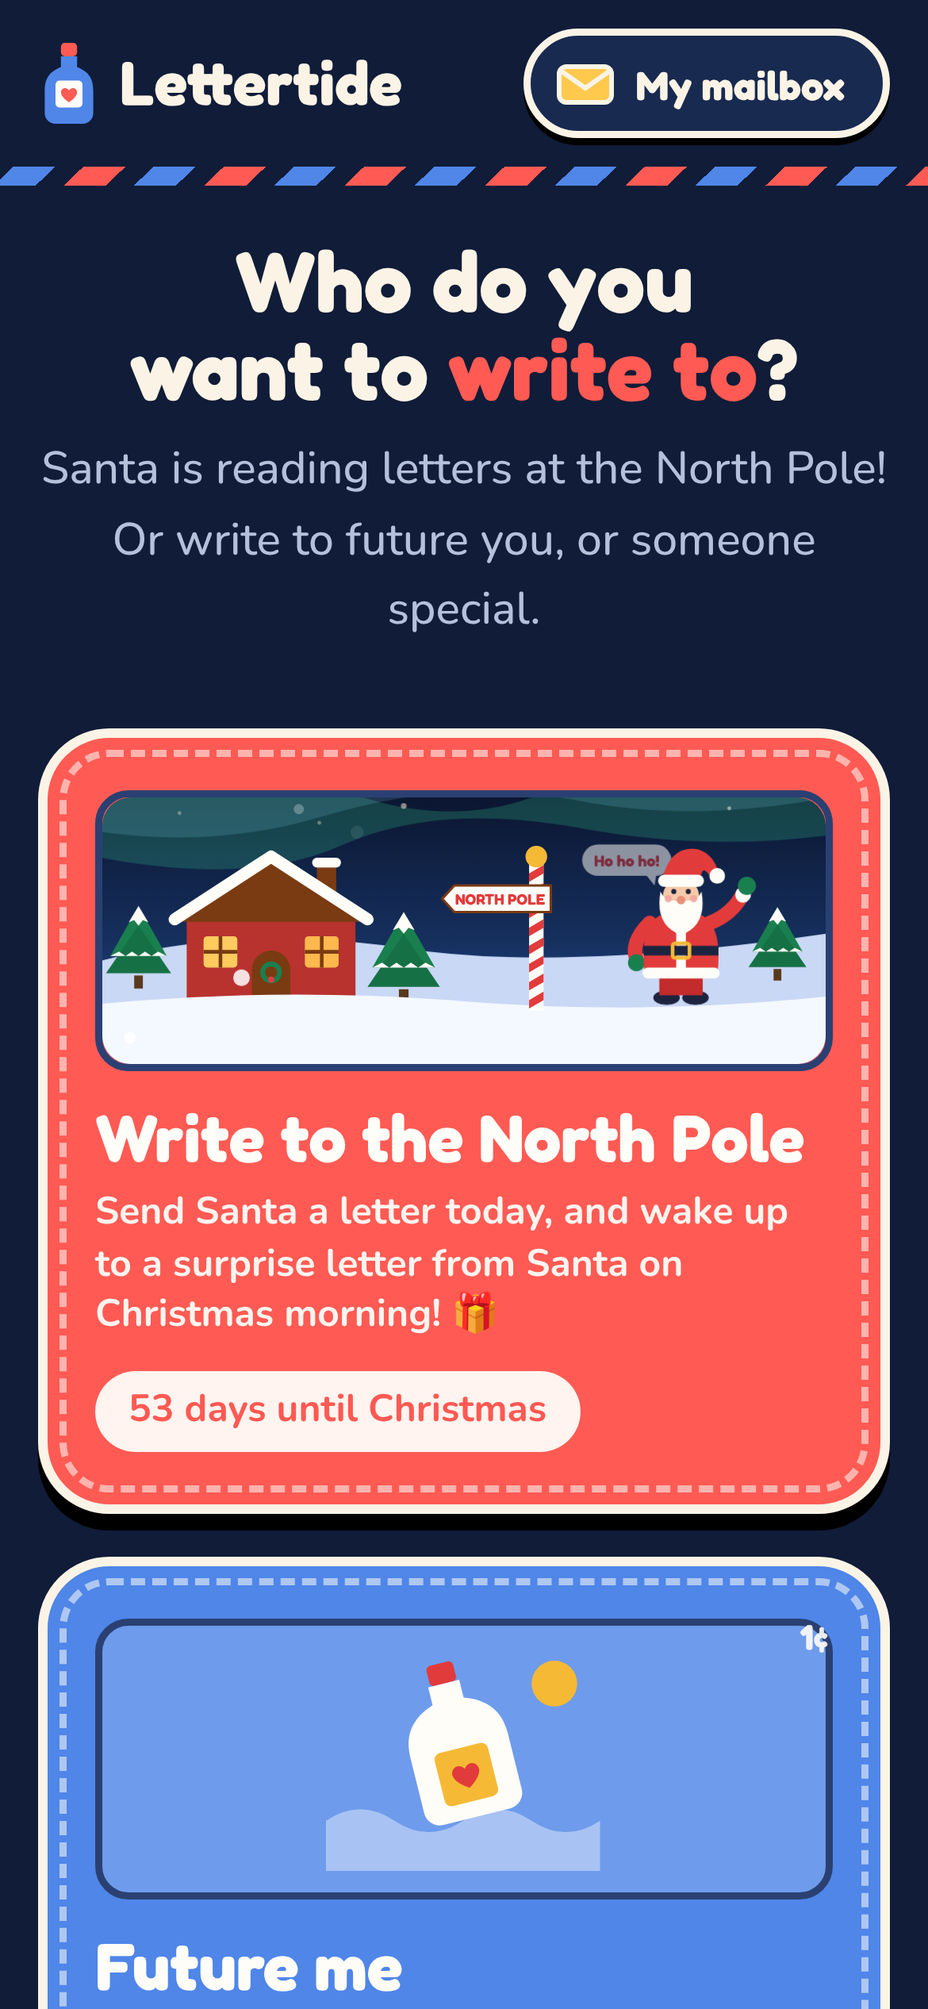
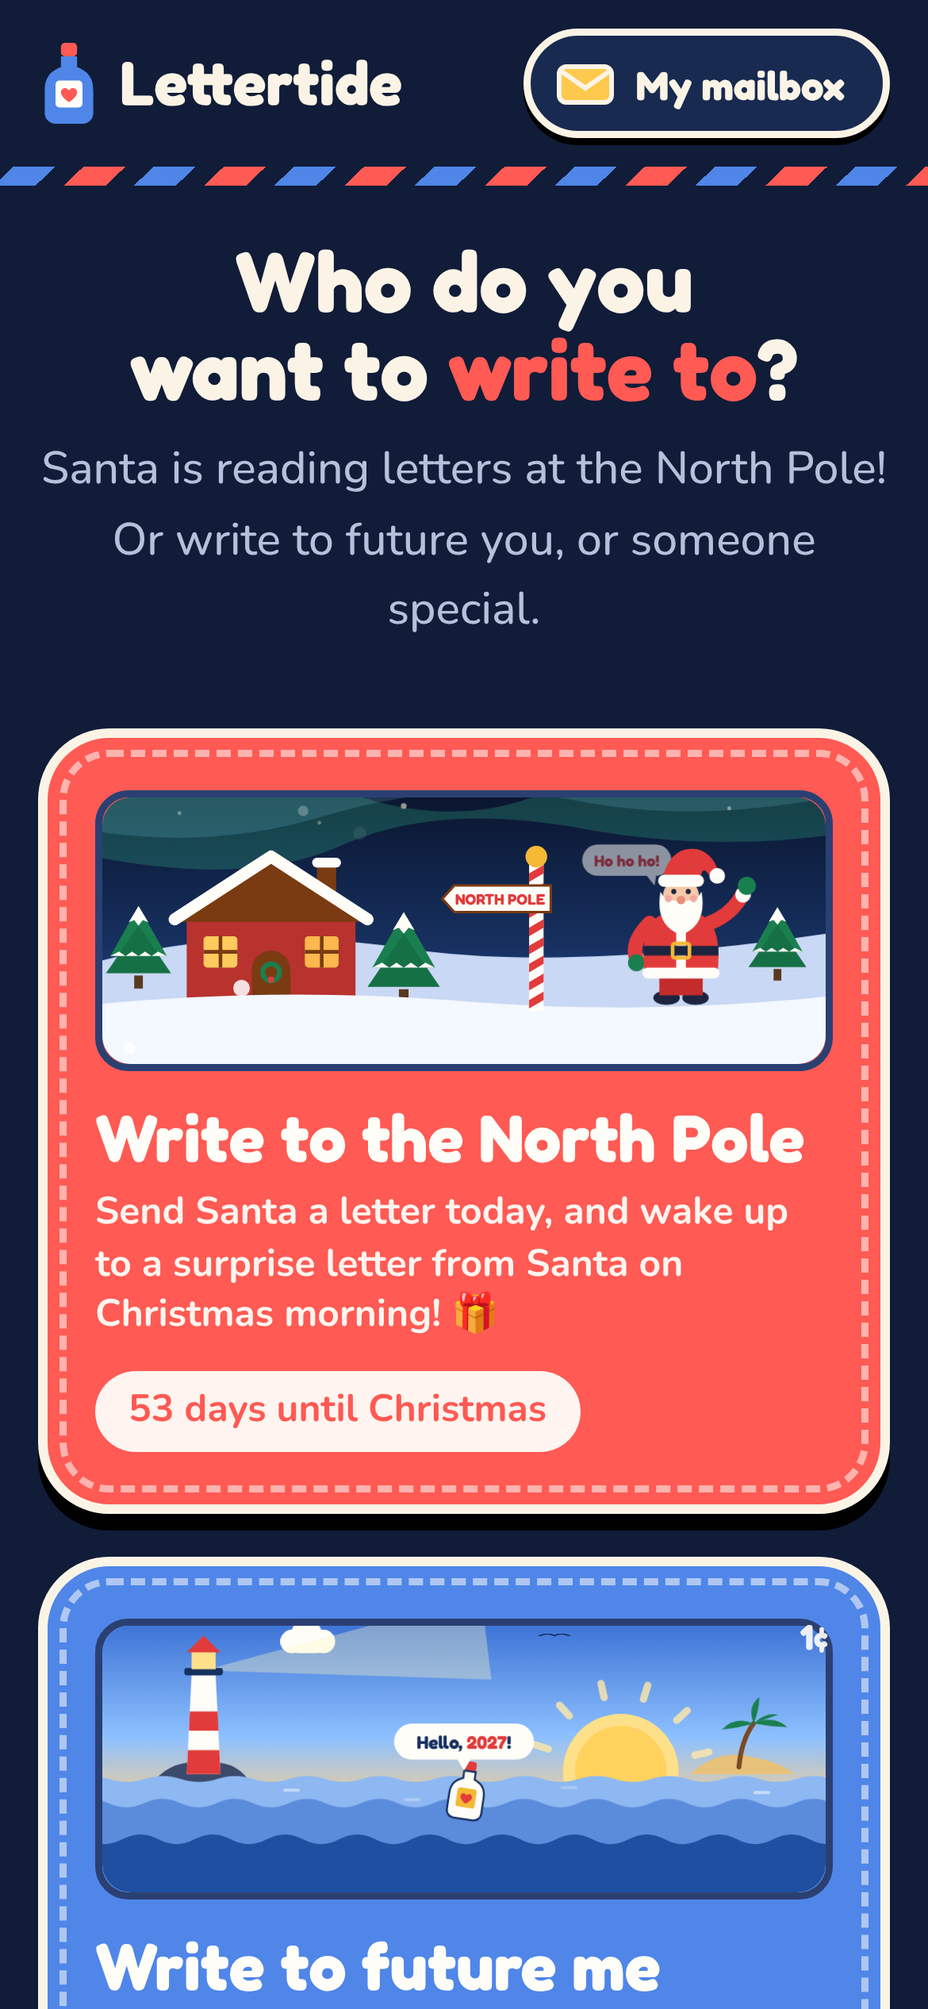
Animated scenes for Future me (message in a bottle) and Someone special (postcard street), livelier wording
Claude-Session: https://claude.ai/code/session_01DTrxakbNKCcgw1AGmyGXff

Changed region(s): [[0.0923, 0.8112, 0.8923, 0.9984], [0.2462, 0.468, 0.2769, 0.4992]]

diff --git a/public/index.html b/public/index.html
@@ -167,6 +167,42 @@ textarea.write{width:100%;font:400 25px/1.6 var(--f-hand);color:var(--ink);backg
 .np .env{position:absolute;z-index:2;left:6%;bottom:16%;width:clamp(44px,9%,70px);animation:npfly 2.8s ease-in forwards}
 @keyframes npfly{0%{left:6%;bottom:16%;transform:rotate(-8deg)}60%{left:50%;bottom:62%;transform:rotate(10deg)}100%{left:76%;bottom:40%;transform:scale(.35);opacity:0}}
 .intro-np{margin:0;font:600 20px/1.4 var(--f-body);text-align:center}.intro-np b{display:block;font:700 clamp(24px,4vw,32px)/1.15 var(--f-display);color:var(--red);margin-bottom:4px}
+/* Future me sea + Someone special street */
+.np.sea{background:linear-gradient(180deg,#3E74D6 0%,#8EC1FF 42%,#FFD08A 70%,#FF9E6B 100%)}
+.np.town{background:linear-gradient(180deg,#6DBBFF 0%,#BFE5FF 55%,#FFF4D6 100%)}
+.np .spin{transform-box:fill-box;transform-origin:center;animation:spin 30s linear infinite}
+@keyframes spin{to{transform:rotate(360deg)}}
+.np .drift{animation:drift 40s linear infinite}
+@keyframes drift{to{transform:translateX(-860px)}}
+.np .gullfly{animation:gull 18s linear infinite}
+@keyframes gull{from{transform:translate(-40px,10px)}to{transform:translate(660px,-20px)}}
+.np .flap{transform-box:fill-box;transform-origin:center;animation:flap .5s ease-in-out infinite alternate}
+@keyframes flap{to{transform:scaleY(.35)}}
+.np .beam{transform-origin:84px 116px;animation:beamsw 4s ease-in-out infinite alternate}
+@keyframes beamsw{from{transform:rotate(-14deg);opacity:.25}to{transform:rotate(12deg);opacity:.65}}
+.np .w1{animation:wv 7s linear infinite}.np .w2{animation:wv 5s linear infinite reverse}.np .w3{animation:wv 4s linear infinite}
+@keyframes wv{to{transform:translateX(-120px)}}
+.np .bob2{animation:bob2 2.6s ease-in-out infinite}
+@keyframes bob2{0%,100%{transform:translateY(0) rotate(-10deg)}50%{transform:translateY(-7px) rotate(9deg)}}
+.np .yr{opacity:0;animation:yr 12s infinite}
+@keyframes yr{0%{opacity:0;transform:translateY(5px)}3%,22%{opacity:1;transform:none}25%,100%{opacity:0}}
+.np .fish{animation:fish 7s ease-in-out infinite;transform:translate(160px,290px)}
+@keyframes fish{0%,62%{transform:translate(150px,290px) rotate(-60deg)}74%{transform:translate(178px,196px) rotate(-10deg)}86%{transform:translate(206px,290px) rotate(60deg)}100%{transform:translate(206px,290px) rotate(60deg)}}
+.np .sway2{transform-box:fill-box;transform-origin:50% 100%;animation:sw2 2.4s ease-in-out infinite alternate}
+@keyframes sw2{from{transform:rotate(-6deg)}to{transform:rotate(6deg)}}
+.np .sway3{transform-box:fill-box;transform-origin:50% 0;animation:sw3 3s ease-in-out infinite alternate}
+@keyframes sw3{to{transform:rotate(.8deg) translateY(2px)}}
+.np .rise{animation:rise 12s linear infinite}
+@keyframes rise{0%{transform:translate(0,250px);opacity:0}6%{opacity:1}50%{transform:translate(14px,110px)}100%{transform:translate(-6px,-60px);opacity:1}}
+.np .mflag{transform-box:fill-box;transform-origin:10% 100%;animation:mflag 6s ease-in-out infinite}
+@keyframes mflag{0%,40%{transform:rotate(0)}50%,90%{transform:rotate(-90deg)}100%{transform:rotate(0)}}
+.np .fly{animation:fly3 6s ease-in-out infinite;opacity:0}
+@keyframes fly3{0%{transform:translate(206px,176px) rotate(-25deg) scale(.4);opacity:0}8%{opacity:1}50%{transform:translate(336px,66px) rotate(0) scale(1)}90%{transform:translate(463px,186px) rotate(22deg) scale(.45);opacity:1}100%{transform:translate(463px,186px) scale(.2);opacity:0}}
+.np .puff{animation:puff 4.2s ease-out infinite;opacity:0}
+@keyframes puff{0%{transform:translate(529px,104px) scale(.6);opacity:.9}100%{transform:translate(545px,40px) scale(1.5);opacity:0}}
+.np .beat{transform-box:fill-box;transform-origin:center;animation:beat 1.2s ease-in-out infinite}
+@keyframes beat{50%{transform:scale(1.25)}}
+@media (prefers-reduced-motion:reduce){.np .fly{opacity:1;transform:translate(336px,70px)}.np .yr:first-of-type{opacity:1}.np .fish{opacity:0}.np .rise{transform:translate(0,90px)}}
 .sealed{display:grid;gap:14px;justify-items:center;text-align:center;padding:18px;border:3px dashed var(--line);border-radius:22px}
 .sealed svg{width:120px;height:auto}
 .sealed b{font:700 24px/1.2 var(--f-display)}
@@ -266,16 +302,16 @@ footer{padding-block:10px 40px;text-align:center;color:var(--muted);font-size:15
 <main data-panel="home" class="g"><div class="wrap">
   <div class="hello">
     <h1>Who do you want to <span>write to</span>?</h1>
-    <p id="hello-sub">Pick one. We'll help you with every step.</p>
+    <p id="hello-sub">Pick a door. Every letter is a little adventure.</p>
   </div>
   <div class="doors">
     <a class="door" href="#future" style="--c:var(--sky)">
-      <div class="pic"><svg viewBox="0 0 120 100" aria-hidden="true"><path d="M0 78q15-10 30 0t30 0 30 0 30 0v22H0z" fill="#ffffff66"/><g transform="translate(60 52) rotate(-14)"><rect x="-6" y="-44" width="12" height="9" rx="2" fill="#E23B3B"/><path d="M-7-35h14v8c12 4 15 12 15 20v25a7 7 0 0 1-7 7h-30a7 7 0 0 1-7-7V-7c0-8 3-16 15-20z" fill="#FFFDF8"/><rect x="-12" y="-6" width="24" height="24" rx="3" fill="#F5B935"/><path d="M0 12s-6-3.6-6-7.2c0-1.8 1.4-3.2 3-3.2 1.4 0 2.4.8 3 1.8.6-1 1.6-1.8 3-1.8 1.6 0 3 1.4 3 3.2C6 8.4 0 12 0 12z" fill="#E23B3B"/></g><circle cx="100" cy="18" r="10" fill="#F5B935"/></svg></div>
-      <span class="stamp-val" aria-hidden="true">1¢</span><b>Future me</b><span>A letter that comes back to you in months or years.</span>
+      <div class="pic has-np"><div class="np" data-np="sea" aria-hidden="true"></div></div>
+      <span class="stamp-val" aria-hidden="true">1¢</span><b>Write to future me</b><span>Seal a letter in a bottle and send it across the years. It washes up on the day you pick!</span>
     </a>
     <a class="door" href="#people" style="--c:var(--yellow);--on:#16305F">
-      <div class="pic"><svg viewBox="0 0 120 100" aria-hidden="true"><rect x="18" y="26" width="84" height="58" rx="4" fill="#FFFDF8"/><path d="M18 26h84v6H18z" fill="#E23B3B"/><path d="M18 78h84v6H18z" fill="#1F4FA0"/><path d="M18 34l42 26 42-26" fill="none" stroke="#16305F" stroke-width="3" stroke-linejoin="round"/><path d="M60 72s-12-7-12-15c0-3.5 2.6-6 6-6 2.7 0 4.8 1.7 6 3.5 1.2-1.8 3.3-3.5 6-3.5 3.4 0 6 2.5 6 6 0 8-12 15-12 15z" fill="#E23B3B"/></svg></div>
-      <span class="stamp-val" aria-hidden="true">2¢</span><b>Someone special</b><span>Thank-yous, birthdays, Diwali, Eid, Hanukkah, Christmas and more.</span>
+      <div class="pic has-np"><div class="np" data-np="town" aria-hidden="true"></div></div>
+      <span class="stamp-val" aria-hidden="true">2¢</span><b>Make someone’s day</b><span>Paint a postcard for a birthday, Diwali, Eid, Thanksgiving or just because, and send it from your phone.</span>
     </a>
     <a class="door" href="#santa" id="santa-door" style="--c:var(--santa)">
       <div class="pic has-np"><div class="np" data-np aria-hidden="true"></div></div>
@@ -294,8 +330,10 @@ footer{padding-block:10px 40px;text-align:center;color:var(--muted);font-size:15
   <div class="wiz-top"><button class="back" type="button" aria-label="Back" data-back><svg viewBox="0 0 24 24" fill="none" stroke="currentColor" stroke-width="3" stroke-linecap="round"><path d="M15 5l-7 7 7 7"/></svg></button><div class="dots" aria-hidden="true"></div><div class="who"></div></div>
 
   <section class="card" data-step>
-    <h2>Write to future you</h2>
-    <p class="sub">Tell future you about today. Anything is fine!</p>
+    <div class="np" data-np="sea" aria-hidden="true"></div>
+    <p class="intro-np"><b>Send a message in a bottle to future you.</b> It floats across the years and washes up on the day you choose. What will you tell them?</p>
+    <h2>Dear future me…</h2>
+    <p class="sub">What you love, what you’re proud of, what you’re wondering about. Future you will want to know everything!</p>
     <label for="f-body" class="sr">Your letter</label>
     <textarea id="f-body" class="write" data-draft placeholder="Dear future me,"></textarea>
     <div class="talk" data-talk="f-body" hidden><button type="button" class="mic"><svg viewBox="0 0 24 24" fill="none" stroke="currentColor" stroke-width="2.4" stroke-linecap="round" aria-hidden="true"><rect x="9" y="3" width="6" height="11" rx="3"/><path d="M5 11a7 7 0 0 0 14 0M12 18v3"/></svg><span class="lbl">Talk instead of typing</span></button><span class="heard" aria-live="polite"></span></div>
@@ -307,7 +345,7 @@ footer{padding-block:10px 40px;text-align:center;color:var(--muted);font-size:15
   </section>
 
   <section class="card" data-step hidden>
-    <h2>When should it come back?</h2>
+    <h2>When should it wash ashore?</h2>
     <div class="tiles" id="f-when"></div>
     <div id="f-custom-wrap" hidden><label class="lbl" for="f-custom">Pick a day</label><input id="f-custom" class="field" type="date"></div>
     <div class="bigdate" id="f-date"></div>
@@ -316,8 +354,8 @@ footer{padding-block:10px 40px;text-align:center;color:var(--muted);font-size:15
   </section>
 
   <section class="card" data-step hidden>
-    <h2>Pack a time capsule</h2>
-    <p class="sub">Fill in any you like. Future you will see these next to empty boxes for who you are then.</p>
+    <h2>Pack your time capsule</h2>
+    <p class="sub">Fill in any you like. Future you gets to compare: will anything change?</p>
     <div class="grid2">
       <div><label class="lbl" for="f-food">Favorite food</label><input id="f-food" class="field" type="text" data-draft></div>
       <div><label class="lbl" for="f-friend">Best friend</label><input id="f-friend" class="field" type="text" data-draft></div>
@@ -329,7 +367,7 @@ footer{padding-block:10px 40px;text-align:center;color:var(--muted);font-size:15
   </section>
 
   <section class="card" data-step hidden>
-    <h2>Lock it with a secret word?</h2>
+    <h2>Add a secret lock?</h2>
     <p class="sub">It already stays closed until the day it comes back. A secret word adds an extra lock.</p>
     <div class="tiles" id="f-lock">
       <button type="button" class="tile" aria-pressed="true" data-lock="0">No, just wait<small>Opens on the day</small></button>
@@ -347,7 +385,7 @@ footer{padding-block:10px 40px;text-align:center;color:var(--muted);font-size:15
   </section>
 
   <section class="card" data-step data-final hidden>
-    <div class="scene seas" aria-hidden="true"><div class="sunball"></div><div class="cap">Off it goes!</div>
+    <div class="scene seas" aria-hidden="true"><div class="sunball"></div><div class="cap">Off to the future!</div>
       <svg class="bob" viewBox="0 0 22 30"><rect x="8" y="0" width="6" height="5" rx="1.5" fill="#E23B3B"/><path d="M8 5h6v4c5 2 6 5 6 9v8a4 4 0 0 1-4 4H6a4 4 0 0 1-4-4v-8c0-4 1-7 6-9z" fill="#FFFDF8"/><rect x="6" y="14" width="10" height="10" rx="1.5" fill="#FFFDF8"/></svg>
       <svg class="waves" viewBox="0 0 400 110" preserveAspectRatio="none"><path d="M0 40q25-14 50 0t50 0 50 0 50 0 50 0 50 0 50 0 50 0V110H0z" fill="#5B8BDB"/><path d="M0 64q25-14 50 0t50 0 50 0 50 0 50 0 50 0 50 0 50 0V110H0z" fill="#1F4FA0"/></svg>
     </div>
@@ -362,7 +400,9 @@ footer{padding-block:10px 40px;text-align:center;color:var(--muted);font-size:15
   <div class="wiz-top"><button class="back" type="button" aria-label="Back" data-back><svg viewBox="0 0 24 24" fill="none" stroke="currentColor" stroke-width="3" stroke-linecap="round"><path d="M15 5l-7 7 7 7"/></svg></button><div class="dots" aria-hidden="true"></div><div class="who"></div></div>
 
   <section class="card" data-step>
-    <h2>Who is it for?</h2>
+    <div class="np" data-np="town" aria-hidden="true"></div>
+    <p class="intro-np" style="--red:#16305F"><b>Make someone’s day with a painted postcard.</b> It takes one minute, and it goes straight from your phone to theirs.</p>
+    <h2>Who’s getting a surprise?</h2>
     <div class="grid2">
       <div><label class="lbl" for="p-to">Their name</label><input id="p-to" class="field" type="text" data-draft placeholder="Grandma, Mr. Lee…"></div>
       <div><label class="lbl" for="p-from">Your name</label><input id="p-from" class="field" type="text" data-draft placeholder="Maya" autocomplete="given-name"></div>
@@ -383,15 +423,15 @@ footer{padding-block:10px 40px;text-align:center;color:var(--muted);font-size:15
   </section>
 
   <section class="card" data-step hidden>
-    <h2>Pick a picture</h2>
-    <p class="sub">This is your postcard. Tap a picture to change it.</p>
+    <h2>Pick a painting</h2>
+    <p class="sub">Here’s your postcard! Tap a picture to try another.</p>
     <div class="preview" id="p-preview"></div>
     <div class="pics" id="p-pics"></div>
     <div class="next-row"><button class="big go" type="button" data-next>Next</button></div>
   </section>
 
   <section class="card" data-step hidden>
-    <h2>When will you send it?</h2>
+    <h2>When should it arrive?</h2>
     <p class="sub">You send it from your own phone or email, so they'll see it's from you.</p>
     <div class="tiles" id="p-when"></div>
     <div id="p-custom-wrap" hidden><label class="lbl" for="p-custom">Pick a day</label><input id="p-custom" class="field" type="date"></div>
@@ -1086,8 +1126,69 @@ function northPoleSVG(){
   </g></g>
 </svg>`;
 }
+/* ---------- Future me: a message in a bottle floating across the years ---------- */
+const cloud = (x, y, s, dur, delay) => `<g class="drift" style="animation-duration:${dur}s;animation-delay:-${delay}s"><g transform="translate(${x} ${y}) scale(${s})" fill="#FFFDF8"><circle cx="0" cy="0" r="14"/><circle cx="17" cy="-9" r="18"/><circle cx="37" cy="0" r="14"/><rect x="0" y="-2" width="37" height="16" rx="8"/></g></g>`;
+const waveRow = (y, amp, fill, cls) => { let d = `M-600 ${y}q15 ${-amp} 30 0`; for (let x = -570; x < 1300; x += 30) d += 't30 0'; return `<path class="${cls}" d="${d}V320H-600Z" fill="${fill}"/>`; };
+const gull = (y, dur, delay) => `<g class="gullfly" style="animation-duration:${dur}s;animation-delay:-${delay}s"><g transform="translate(0 ${y})"><path class="flap" d="M-12 0Q-6-7 0 0Q6-7 12 0" stroke="#16305F" stroke-width="2.6" fill="none" stroke-linecap="round"/></g></g>`;
+function seaSVG(){
+  const Y = new Date().getFullYear();
+  const years = [1, 5, 10, 20].map((n, i) => `<text class="yr" style="animation-delay:${i * 3}s" x="0" y="5" text-anchor="middle" font-family="Fredoka,Nunito,system-ui,sans-serif" font-weight="700" font-size="15" fill="#16305F">Hello, <tspan fill="#E23B3B">${Y + n}</tspan>!</text>`).join('');
+  const rays = Array.from({ length: 12 }, (_, i) => `<rect x="-3" y="-78" width="6" height="18" rx="3" transform="rotate(${i * 30})"/>`).join('');
+  const glints = [[150,214],[250,222],[380,212],[470,226],[540,216],[90,230]].map(([x, y], i) => `<rect class="tw" style="animation-delay:-${i * .5}s" x="${x}" y="${y}" width="14" height="2.5" rx="1.2" fill="#FFFDF8"/>`).join('');
+  return `<svg viewBox="0 0 600 300" preserveAspectRatio="xMidYMax slice" aria-hidden="true">
+  <g transform="translate(430 200)"><g class="spin" fill="#FFE9A8" opacity=".8">${rays}</g><circle r="48" fill="#FFE08A"/><circle r="38" fill="#FFD25E"/></g>
+  ${cloud(700, 52, 1, 46, 8)}${cloud(700, 92, .7, 34, 20)}${cloud(700, 36, .55, 40, 31)}
+  ${gull(70, 16, 2)}${gull(96, 21, 11)}
+  <path d="M488 202q22-22 52-14q22 4 34 14z" fill="#E8C27A"/><path d="M528 196q2-22 12-36" stroke="#7A4A22" stroke-width="4" fill="none" stroke-linecap="round"/>
+  <g class="sway2" fill="#1A7F4E"><path d="M540 160q-16-6-26 6q14-2 26-6z"/><path d="M540 160q16-8 28 2q-14 0-28-2z"/><path d="M540 160q-6-14 4-22q0 12-4 22z"/><path d="M540 160q10-10 20-8q-10 4-20 8z"/></g>
+  <path class="beam" d="M84 116L320 82L320 152Z" fill="#FFF6C2" opacity=".55"/>
+  <path d="M40 212q14-22 44-20q30-2 40 20z" fill="#3B4A6B"/>
+  <path d="M70 202L74 120h20l4 82z" fill="#FFFDF8"/><path d="M71 182h26l1 20H70zM72.6 150h23l.8 16H71.8z" fill="#E23B3B"/>
+  <rect x="68" y="114" width="32" height="6" rx="2" fill="#16305F"/><rect x="74" y="100" width="20" height="15" fill="#FFE08A"/><path d="M70 101l14-14 14 14z" fill="#E23B3B"/>
+  ${waveRow(206, 5, '#8DB8F2', 'w1')}${glints}${waveRow(226, 7, '#5B8BDB', 'w2')}
+  <g class="fish"><ellipse rx="10" ry="5.5" fill="#FF8A3D"/><path d="M-9 0l-8-6v12z" fill="#FF8A3D"/><circle cx="5" cy="-1.5" r="1.4" fill="#16305F"/></g>
+  <g transform="translate(300 240)"><g class="bob2">
+    <g transform="translate(-17.6 -42) scale(1.6)"><rect x="8" y="0" width="6" height="5" rx="1.5" fill="#E23B3B"/><path d="M8 5h6v4c5 2 6 5 6 9v8a4 4 0 0 1-4 4H6a4 4 0 0 1-4-4v-8c0-4 1-7 6-9z" fill="#FFFDF8" stroke="#16305F" stroke-width="1"/><rect x="6" y="14" width="10" height="10" rx="1.5" fill="#F5B935"/><path d="M11 22s-3-1.8-3-3.6c0-.9.7-1.6 1.5-1.6.7 0 1.2.4 1.5.9.3-.5.8-.9 1.5-.9.8 0 1.5.7 1.5 1.6C14 20.2 11 22 11 22z" fill="#E23B3B"/></g>
+  </g></g>
+  <g transform="translate(300 176)"><rect x="-58" y="-16" width="116" height="30" rx="15" fill="#FFFDF8"/><path d="M-6 13l6 10 6-10z" fill="#FFFDF8"/>${years}</g>
+  ${waveRow(256, 8, '#1F4FA0', 'w3')}
+</svg>`;
+}
+
+/* ---------- Someone special: postcards flying to Grandma's house ---------- */
+function townSVG(){
+  const flags = Array.from({ length: 15 }, (_, i) => { const t = (i + .5) / 15, x = 600 * t, y = 12 + 96 * t * (1 - t); return `<path d="M${x - 10} ${y}h20l-10 18z" fill="${['#E23B3B','#F5B935','#1F4FA0','#1A7F4E'][i % 4]}"/>`; }).join('');
+  const rays = Array.from({ length: 10 }, (_, i) => `<rect x="-2.5" y="-44" width="5" height="12" rx="2.5" transform="rotate(${i * 36})"/>`).join('');
+  const env = (d) => `<g class="fly" style="animation-delay:-${d}s"><rect x="-15" y="-10" width="30" height="20" rx="3" fill="#FFFDF8" stroke="#16305F" stroke-width="2"/><path d="M-13-8l13 10 13-10" fill="none" stroke="#16305F" stroke-width="2"/><path d="M0 7s-4.5-2.7-4.5-5.4c0-1.3 1-2.3 2.2-2.3 1 0 1.8.6 2.3 1.3.5-.7 1.3-1.3 2.3-1.3 1.2 0 2.2 1 2.2 2.3C4.5 4.3 0 7 0 7z" fill="#E23B3B"/></g>`;
+  const heart = 'M0 5C-7-1-7-8 0-4C7-8 7-1 0 5Z';
+  const balloon = (x, c, d, dur) => `<g transform="translate(${x} 0)"><g class="rise" style="animation-duration:${dur}s;animation-delay:-${d}s"><path d="M0 16q-4 12 2 24" stroke="#16305F" stroke-width="1.2" fill="none"/><ellipse cx="0" cy="0" rx="12" ry="15" fill="${c}"/><path d="M-2 15h4l-2 4z" fill="${c}"/><ellipse cx="-4" cy="-6" rx="3" ry="5" fill="#fff" opacity=".45"/></g></g>`;
+  const flower = (x, y, c, d) => `<g transform="translate(${x} ${y})"><g class="sway2" style="animation-delay:-${d}s"><path d="M0 0v-14" stroke="#1A7F4E" stroke-width="2"/><circle cy="-17" r="5" fill="${c}"/><circle cy="-17" r="2" fill="#FFE08A"/></g></g>`;
+  return `<svg viewBox="0 0 600 300" preserveAspectRatio="xMidYMax slice" aria-hidden="true">
+  <g fill="none" stroke-width="12" opacity=".32"><path d="M120 260a180 180 0 0 1 360 0" stroke="#E23B3B"/><path d="M132 260a168 168 0 0 1 336 0" stroke="#F5B935"/><path d="M144 260a156 156 0 0 1 312 0" stroke="#3DBE6B"/><path d="M156 260a144 144 0 0 1 288 0" stroke="#1F4FA0"/></g>
+  <g transform="translate(64 66)"><g class="spin" fill="#FFD23F">${rays}</g><circle r="24" fill="#FFD23F"/></g>
+  ${cloud(700, 70, .9, 44, 12)}${cloud(700, 110, .6, 32, 25)}
+  <g class="sway3"><path d="M0 12Q300 108 600 12" stroke="#16305F" stroke-width="1.5" fill="none"/>${flags}</g>
+  ${balloon(300, '#E23B3B', 1, 11)}${balloon(330, '#1F4FA0', 5, 13)}${balloon(270, '#F5B935', 8, 12)}
+  <path d="M0 208Q150 170 300 198T600 188V300H0Z" fill="#9ADB9C"/>
+  <g><path d="M50 166L115 118L180 166Z" fill="#E23B3B"/><rect x="62" y="162" width="106" height="80" fill="#1F4FA0"/><rect x="78" y="182" width="24" height="22" rx="3" fill="#FFD86B"/><path d="M90 182v22M78 193h24" stroke="#16305F" stroke-width="2.5"/><rect x="122" y="196" width="28" height="46" rx="4" fill="#FFFDF8"/><circle cx="144" cy="220" r="2.4" fill="#16305F"/></g>
+  <g><rect x="203" y="196" width="6" height="44" fill="#7A4A22"/><path d="M190 198V184a16 16 0 0 1 32 0v14z" fill="#E23B3B" stroke="#16305F" stroke-width="2"/><g class="mflag"><rect x="221" y="174" width="3" height="20" fill="#16305F"/><rect x="221" y="174" width="12" height="8" fill="#F5B935"/></g></g>
+  <g><rect x="522" y="112" width="14" height="30" fill="#7A4A22"/>
+    <path class="puff" d="${heart}" transform="translate(529 104)" fill="#E23B3B"/><path class="puff" style="animation-delay:-1.4s" d="${heart}" transform="translate(529 104)" fill="#FF8FA3"/><path class="puff" style="animation-delay:-2.8s" d="${heart}" transform="translate(529 104)" fill="#E23B3B"/>
+    <path d="M418 156L488 104L558 156Z" fill="#1F4FA0"/><rect x="430" y="152" width="118" height="88" fill="#F5B935"/>
+    <rect x="446" y="170" width="34" height="30" rx="3" fill="#FFFDF8"/><path d="M446 170h10l-4 30h-6zM480 170h-10l4 30h6z" fill="#E23B3B"/><path class="beat" d="M463 192s-6-3.5-6-7.2c0-1.8 1.4-3.2 3-3.2 1.4 0 2.4.8 3 1.8.6-1 1.6-1.8 3-1.8 1.6 0 3 1.4 3 3.2 0 3.7-6 7.2-6 7.2z" fill="#E23B3B"/>
+    <rect x="500" y="192" width="28" height="48" rx="4" fill="#E23B3B"/><circle cx="506" cy="216" r="2.4" fill="#FFFDF8"/></g>
+  ${env(0)}${env(2)}${env(4)}
+  <path d="M0 238Q160 222 300 236T600 230V300H0Z" fill="#6CC070"/>
+  <path d="M206 300Q250 262 300 252T470 240" stroke="#F2D59B" stroke-width="14" fill="none" stroke-linecap="round"/>
+  ${flower(30, 262, '#E23B3B', 0)}${flower(58, 270, '#F5B935', .6)}${flower(250, 280, '#FF8FA3', 1.1)}${flower(372, 268, '#1F4FA0', .3)}${flower(560, 262, '#E23B3B', .9)}${flower(586, 272, '#F5B935', 1.4)}
+</svg>`;
+}
+const SCENE_SVG = { pole: northPoleSVG, sea: seaSVG, town: townSVG };
 $$('[data-np]').forEach(box => {
-  box.insertAdjacentHTML('afterbegin', northPoleSVG());
+  const kind = box.dataset.np || 'pole';
+  box.classList.add(kind);
+  box.insertAdjacentHTML('afterbegin', SCENE_SVG[kind]());
+  if (kind !== 'pole') return;
   const snow = el('div', { className:'snow' });
   for (let i = 0; i < 22; i++) snow.append(el('i', { style:`left:${(i * 37) % 100}%;animation-duration:${4 + (i % 5)}s;animation-delay:-${(i * 1.3) % 6}s;width:${3 + (i % 3) * 2}px;height:${3 + (i % 3) * 2}px` }));
   box.insertBefore(snow, box.children[1]);

diff --git a/README.md b/README.md
@@ -4,7 +4,7 @@
 Write to future you, to someone special, or to Santa (who writes back).<br>
 Simple enough for a seven-year-old. Meaningful enough for their grandparents.</p>
 
-<p align="center"><img src="docs/screenshots/home.png" alt="Lettertide home screen: Write to the North Pole with an animated Santa, Future me, and Someone special" width="900"></p>
+<p align="center"><img src="docs/screenshots/home.png" alt="Lettertide home screen with three animated scenes: Santa at the North Pole, a message in a bottle at sea, and postcards flying to Grandma’s house" width="900"></p>
 
 ---
 
